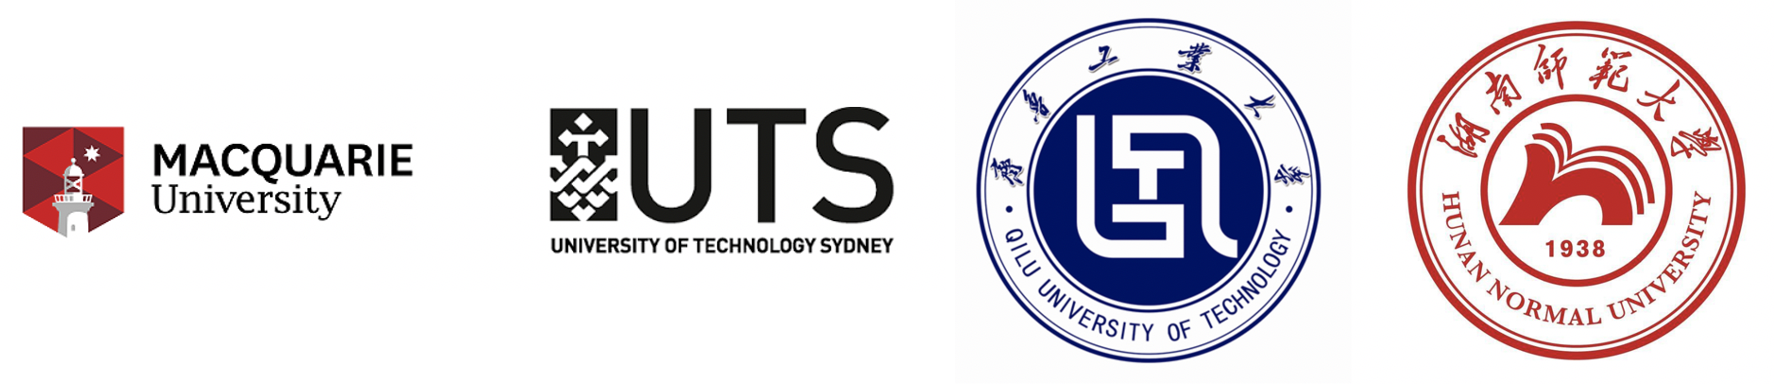
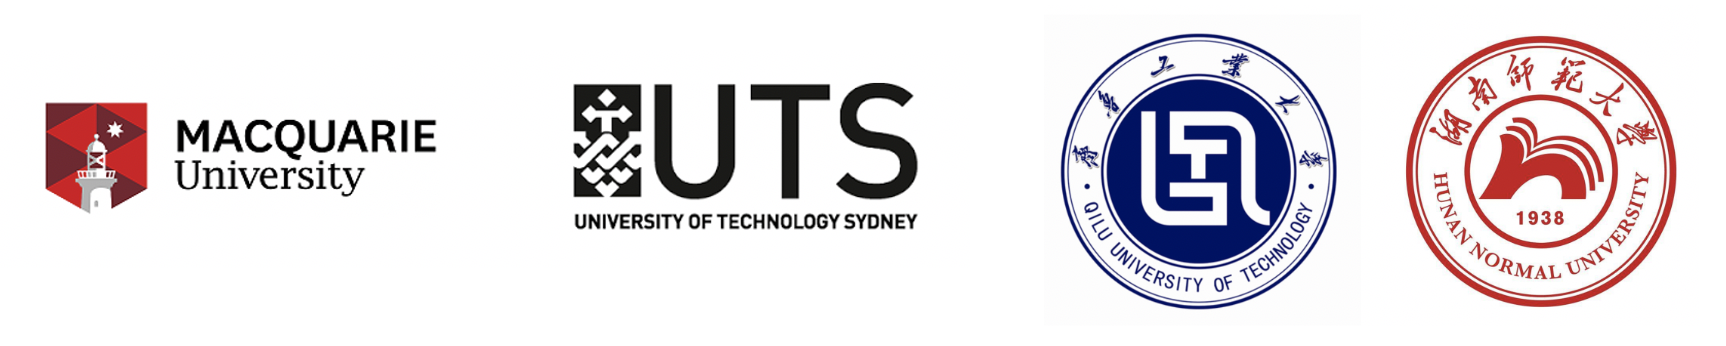
Site updated: 2020-09-27 09:14:09

Changed region(s): [[0.3071, 0.0289, 0.9826, 0.9538], [0.0, 0.289, 0.2764, 0.6069]]

diff --git a/2020/09/17/NeuRec-Workshop/index.html b/2020/09/17/NeuRec-Workshop/index.html
@@ -31,7 +31,7 @@
 <meta property="og:image" content="http://yoursite.com/2020/09/17/NeuRec-Workshop/sponsor.jpg">
 <meta property="og:image" content="http://yoursite.com/2020/09/17/NeuRec-Workshop/support0.jpg">
 <meta property="article:published_time" content="2020-09-17T08:39:08.000Z">
-<meta property="article:modified_time" content="2020-09-26T08:14:04.344Z">
+<meta property="article:modified_time" content="2020-09-27T01:13:11.002Z">
 <meta name="twitter:card" content="summary">
 <meta name="twitter:image" content="http://yoursite.com/2020/09/17/NeuRec-Workshop/cropped-italy.jpg">
 
@@ -203,7 +203,7 @@
                   <i class="far fa-calendar-check"></i>
                 </span>
                 <span class="post-meta-item-text">Edited on</span>
-                <time title="Modified: 2020-09-26 16:14:04" itemprop="dateModified" datetime="2020-09-26T16:14:04+08:00">2020-09-26</time>
+                <time title="Modified: 2020-09-27 09:13:11" itemprop="dateModified" datetime="2020-09-27T09:13:11+08:00">2020-09-27</time>
               </span>
 
           
@@ -231,7 +231,7 @@
 <li>The website of NeuRec Workshop 2020 has been set up. </li>
 </ul>
 <h2 id="NeuRec-2020-sponsor"><a href="#NeuRec-2020-sponsor" class="headerlink" title="NeuRec 2020 sponsor:"></a><strong>NeuRec 2020 sponsor:</strong></h2><p><a target="_blank" rel="noopener" href="https://www.frontiersin.org/journals/big-data"><img src="/2020/09/17/NeuRec-Workshop/sponsor.jpg"></a></p>
-<h2 id="NeuRec-2020-is-supported-by"><a href="#NeuRec-2020-is-supported-by" class="headerlink" title="NeuRec 2020 is supported by:"></a><strong>NeuRec 2020 is supported by:</strong></h2><img src="/2020/09/17/NeuRec-Workshop/support0.jpg" width="1776" height="200">
+<h2 id="NeuRec-2020-is-supported-by"><a href="#NeuRec-2020-is-supported-by" class="headerlink" title="NeuRec 2020 is supported by:"></a><strong>NeuRec 2020 is supported by:</strong></h2><img src="/2020/09/17/NeuRec-Workshop/support0.jpg" width="1776" height="180">
 
     </div>
 

diff --git a/index.html b/index.html
@@ -195,7 +195,7 @@
                   <i class="far fa-calendar-check"></i>
                 </span>
                 <span class="post-meta-item-text">Edited on</span>
-                <time title="Modified: 2020-09-26 16:14:04" itemprop="dateModified" datetime="2020-09-26T16:14:04+08:00">2020-09-26</time>
+                <time title="Modified: 2020-09-27 09:13:11" itemprop="dateModified" datetime="2020-09-27T09:13:11+08:00">2020-09-27</time>
               </span>
 
           
@@ -216,7 +216,7 @@
 <li>The website of NeuRec Workshop 2020 has been set up. </li>
 </ul>
 <h2 id="NeuRec-2020-sponsor"><a href="#NeuRec-2020-sponsor" class="headerlink" title="NeuRec 2020 sponsor:"></a><strong>NeuRec 2020 sponsor:</strong></h2><p><a target="_blank" rel="noopener" href="https://www.frontiersin.org/journals/big-data"><img src="/2020/09/17/NeuRec-Workshop/sponsor.jpg"></a></p>
-<h2 id="NeuRec-2020-is-supported-by"><a href="#NeuRec-2020-is-supported-by" class="headerlink" title="NeuRec 2020 is supported by:"></a><strong>NeuRec 2020 is supported by:</strong></h2><img src="/2020/09/17/NeuRec-Workshop/support0.jpg" width="1776" height="200">
+<h2 id="NeuRec-2020-is-supported-by"><a href="#NeuRec-2020-is-supported-by" class="headerlink" title="NeuRec 2020 is supported by:"></a><strong>NeuRec 2020 is supported by:</strong></h2><img src="/2020/09/17/NeuRec-Workshop/support0.jpg" width="1776" height="180">
 
       
     </div>

diff --git a/About/index.html b/About/index.html
@@ -200,7 +200,7 @@
 <li><a target="_blank" rel="noopener" href="https://www.springer.com/journal/42979/updates/18167122">SN Computer Science</a></li>
 <li><a target="_blank" rel="noopener" href="https://www.springer.com/journal/41060/updates/17193470">International Journal of Data Science and Analytics (JDSA)</a></li>
 </ul>
-<h2 id="Enquiry"><a href="#Enquiry" class="headerlink" title="Enquiry:"></a>Enquiry:</h2><p>Please contact Dr. Shoujin Wang via <a href="mailto:&#115;&#x68;&#111;&#117;&#x6a;&#105;&#110;&#46;&#x77;&#97;&#x6e;&#x67;&#x40;&#x6d;&#113;&#46;&#x65;&#x64;&#x75;&#x2e;&#97;&#117;">&#115;&#x68;&#111;&#117;&#x6a;&#105;&#110;&#46;&#x77;&#97;&#x6e;&#x67;&#x40;&#x6d;&#113;&#46;&#x65;&#x64;&#x75;&#x2e;&#97;&#117;</a>.</p>
+<h2 id="Enquiry"><a href="#Enquiry" class="headerlink" title="Enquiry:"></a>Enquiry:</h2><p>Please contact Dr. Shoujin Wang via <a href="mailto:&#x73;&#104;&#111;&#117;&#106;&#105;&#x6e;&#x2e;&#119;&#97;&#110;&#x67;&#64;&#109;&#113;&#46;&#x65;&#100;&#117;&#46;&#97;&#117;">&#x73;&#104;&#111;&#117;&#106;&#105;&#x6e;&#x2e;&#119;&#97;&#110;&#x67;&#64;&#109;&#113;&#46;&#x65;&#100;&#117;&#46;&#97;&#117;</a>.</p>
 
       </div>
       

diff --git a/css/main.css b/css/main.css
@@ -1168,7 +1168,7 @@ pre .javascript .function {
 }
 .links-of-author a::before,
 .links-of-author span.exturl::before {
-  background: #cdff9c;
+  background: #f265b8;
   border-radius: 50%;
   content: ' ';
   display: inline-block;
